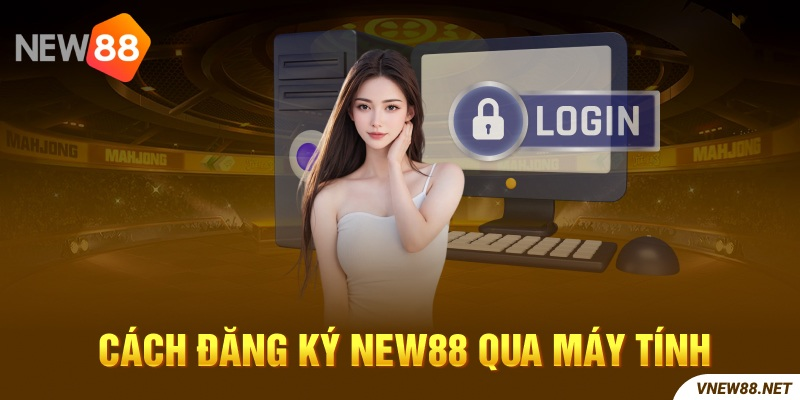
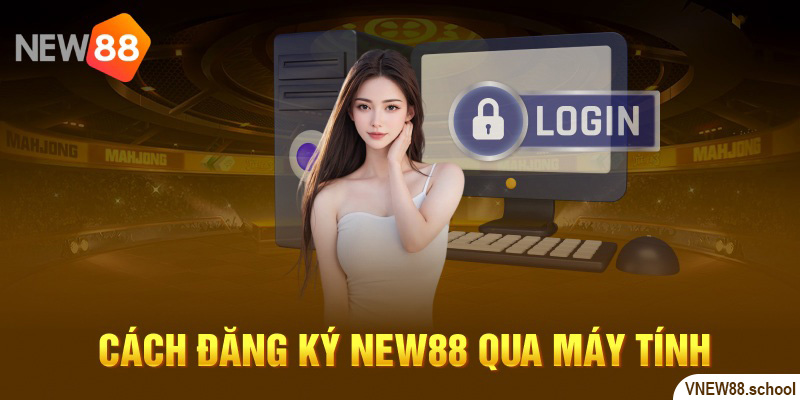
update commit

Changed region(s): [[0.8438, 0.93, 1.0, 0.99]]

diff --git a/index.html b/index.html
@@ -16,7 +16,7 @@
     <!-- css -->
     <link rel="stylesheet" href="./assets/index.css">
 
-    <title>New88 - Trang Chủ Chính Thức Của New88.com</title>
+    <title>New88 - Trang Chủ Chính Thức Của New88.school</title>
 </head>
 <body class="bg-[#252b38]">
     <!-- header -->
@@ -195,7 +195,7 @@
     <!-- section -->
      <section class="w-full p-2">
         <div class="main max-w-[1200px] m-auto">
-            <h1 class="text-center text-xl md:text-3xl text-[#fead00] font-bold">New88 ✔ Casino New88 | Đăng Nhập & Đăng Ký Trang Chủ New88.com</h1>
+            <h1 class="text-center text-xl md:text-3xl text-[#fead00] font-bold">New88 ✔ Casino New88 | Đăng Nhập & Đăng Ký Trang Chủ New88.school</h1>
             <p class="text-[#FFFFFF] font-medium py-5">
                 <i>
                     <span class="text-[#fead00] font-bold">New88</span> là <span class="text-[#fead00] font-bold">sòng bạc trực tuyến</span> thuộc liên minh OKVIP. New88 cung cấp đa dạng sản phẩm cá cược như: casino, xổ số, bắn cá, đá gà, cá cược thể thao. Để có thể yên tâm khi tham gia chơi tại đây, mời bạn cùng tìm hiểu những đánh giá từ các chuyên gia về nhà cái New88 chi tiết qua bài viết dưới đây.
@@ -206,7 +206,7 @@
                 <img src="./assets/img/pic/1.jpg" alt="" class="w-full">
             </div>
             <p class="text-sm sm:text-md text-[#FFFFFF]">New88 xuất hiện trên thị trường giúp người chơi có thêm lựa chọn chất lượng để khám phá niềm vui của cá cược. Thông tin về nhà cái sẽ có cụ thể trong phần sau đây:</p>
-            <h2 class="text-lg md:text-2xl text-[#fead00] font-bold py-5">Trụ sở chính của New88.com</h2>
+            <h2 class="text-lg md:text-2xl text-[#fead00] font-bold py-5">Trụ sở chính của New88.school</h2>
             <p class="text-sm sm:text-md text-[#FFFFFF]">New88 có trụ sở chính tại Manila – Philippines. Nhà cái bắt đầu tiếp cận người dùng bằng tấm giấy phép từ chính phủ Costa Rica. Hiện tại nhà cái đã có mặt tại rất nhiều quốc gia và luôn được phản hồi là địa chỉ cung cấp uy tín và chất lượng.</p>
             <h2 class="text-lg md:text-2xl text-[#fead00] font-bold py-5">Lịch sử hình thành New88</h2>
             <p class="text-sm sm:text-md text-[#FFFFFF]">Nhà cái New88 hiện tại đang trực thuộc tập đoàn OKVIP đây là liên minh giải trí online lớn trên toàn cầu. Nhà cái đã ra mắt từ năm 2006 và hiện đã trải qua nhiều giai đoạn phát triển như:</p>
